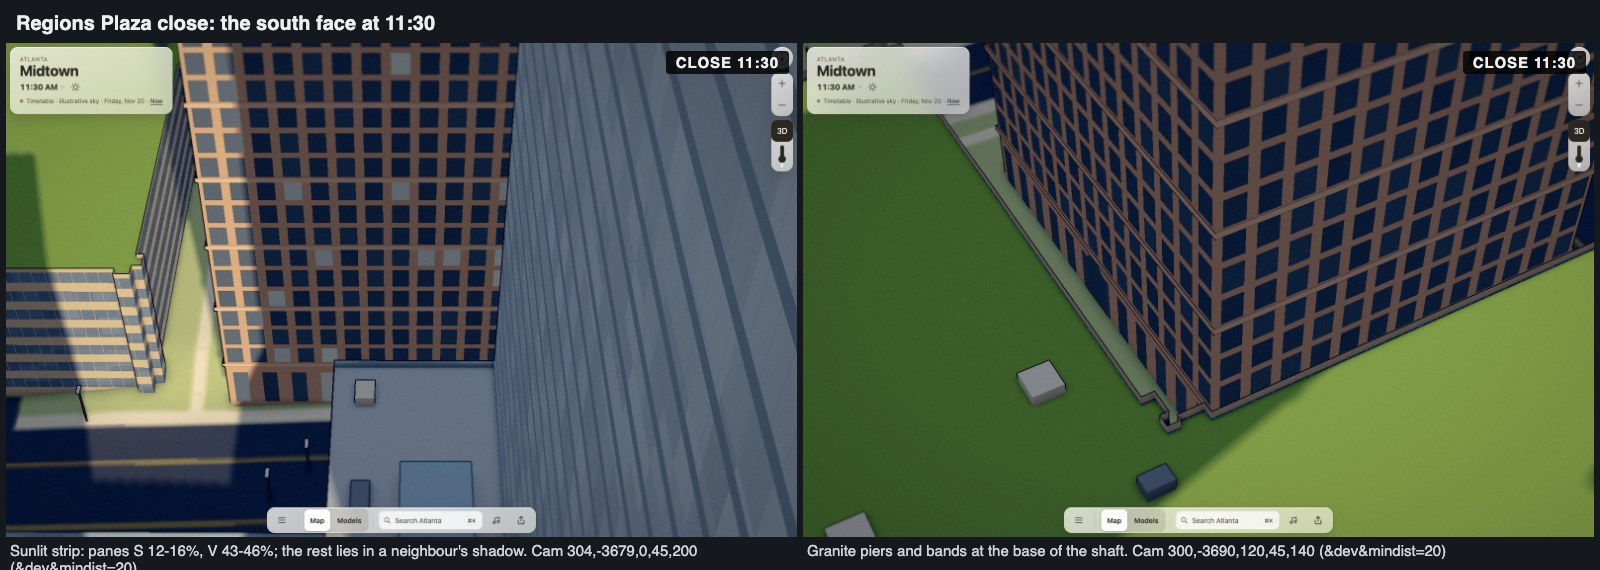
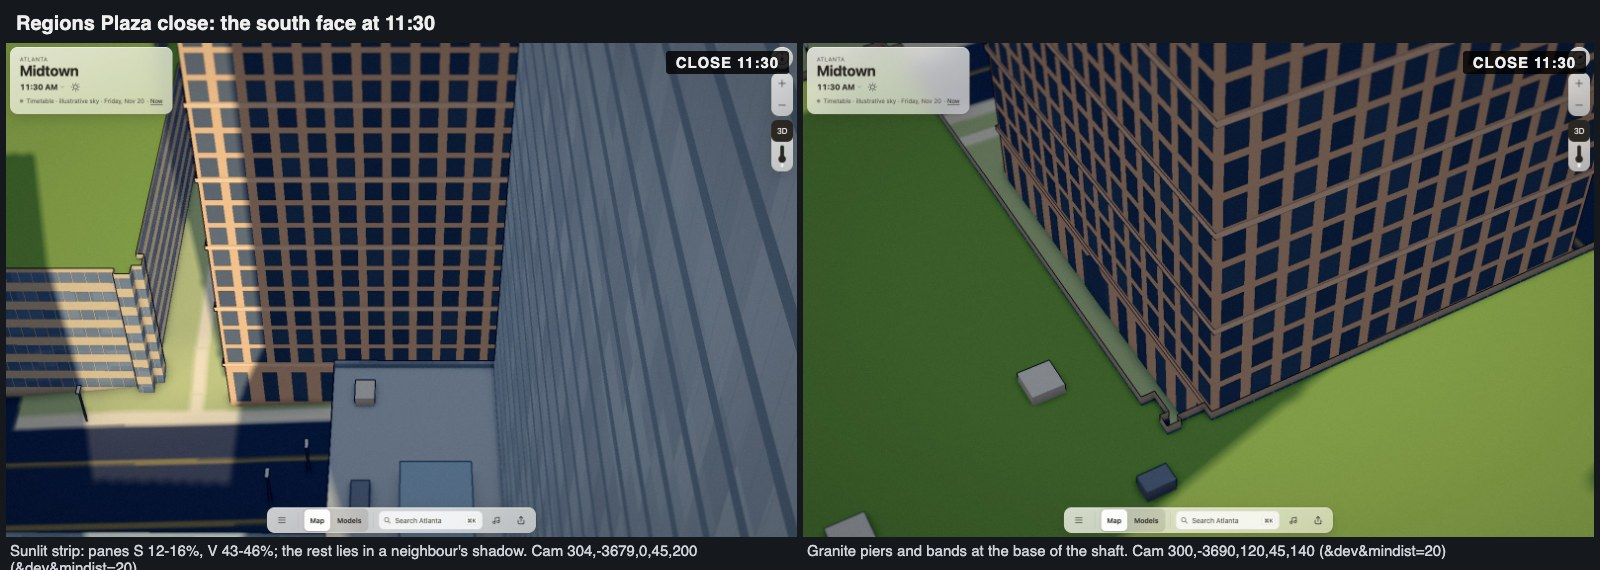
Lighten Regions Plaza's granite so the piers hold in shade

diff --git a/web/src/city/regions-plaza.ts b/web/src/city/regions-plaza.ts
@@ -16,7 +16,7 @@ const corner = 84.4, parapet = 96.8, hipTop = 104, rail = 105.2;
 const base = 9.2; // two-storey granite base
 const storeys = 20, storey = (corner - base) / storeys;
 
-const stone = '#cbb3a2', stoneShade = '#b89f8e', band = '#d8c3b3';
+const stone = '#dcc3ae', stoneShade = '#c9ae98', band = '#e6d2c0'; // warm and light, so piers hold in shade
 // Glass base #737c86: HSV saturation 14%, value 53%, near-neutral as the glass rules ask for dark
 // glass. The photographs read darker; at 11:30 it renders about V 44% where sunlit.
 const glass = ['#737c86', '#707983', '#76808a'];

diff --git a/docs/log/ui/regions-plaza/README.md b/docs/log/ui/regions-plaza/README.md
@@ -21,6 +21,8 @@ Regions Plaza (1180 West Peachtree, completed 2001, formerly Atlantic Center Pla
 
 Everything is vertex colours on `landmarkShell` (batchable, no library surfaces). The shaft uses `litFacade`, so at night about 9% of office windows are lit by `litHash`. The hip roof sits in the lamp mesh, so it glows as one even surface at night, as in the photo.
 
+**Piers:** warm, light granite (`#dcc3ae`), so the pier-and-window rhythm holds on shaded faces. On the shaded west face at 11:30, piers read V 42% against panes at V 12%.
+
 **Glass:** base `#737c86` (HSV S 14%, V 53%). Rendered at 11:30, sunlit panes measure S 12–16%, V 43–46%. Shaded west face: S 20%, V 30%, against a generic glass tower in the same frame at S 35%, V 45%. Panes inside a neighbour's cast shadow read darker navy (S 82%, V 20%).
 
 | View | Camera | Local time, 20 November 2026 | Capture |
